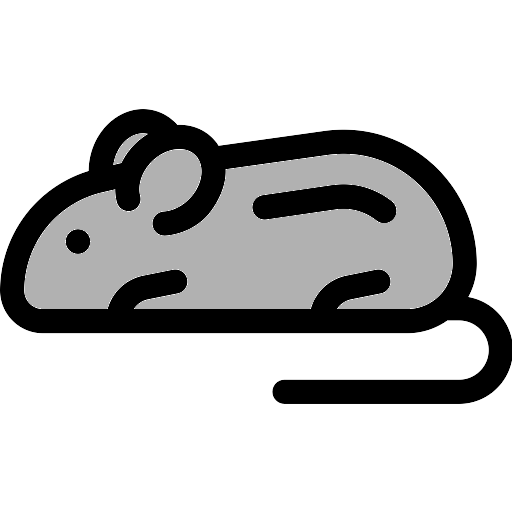
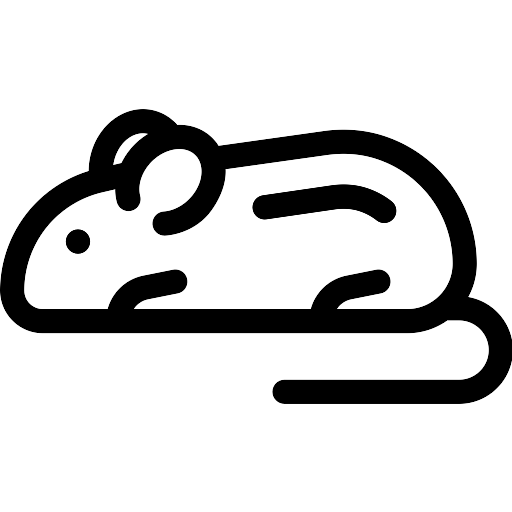
[GAC][Feat] Roll and chose in the turn

Changed region(s): [[0.0312, 0.2812, 0.9062, 0.625], [0.25, 0.25, 0.2812, 0.2812], [0.2188, 0.2812, 0.25, 0.3125]]

diff --git a/GetAllCheeses/getAllCheeses.js b/GetAllCheeses/getAllCheeses.js
@@ -2,20 +2,18 @@ const app = Vue.createApp({
     created() { },
     data() {
         return {
-            chessboard: [],
             diceSide: ["mouse", "cheese2", "cat", "cheese1", "mouse", "cheese0"],//front, bottom, back, top, left, right
-            lastStepChessboard: [],
-            validCell: [],
-            chosen: [0, 0],
-            isChoosing: false,
+            chosen: [-1],
             playerTurn: 1,//1 - n
             playerCount: 2,
             randomMin: 1,
             randomMax: 30,
             diceCount: 13,
-            remainDiceCount: [13],
-            rollResult: {},
+            remainDiceCount: 13,
+            rollResult: [],
+            choseList: [],
             playerColor: ["#DCDCDC", "#DCDCDC"],
+            phase: "roll"//roll - wait - choosing
         };
     },
     mounted() {
@@ -41,20 +39,16 @@ const app = Vue.createApp({
             let cube = "";
             let xRand = 0;
             let yRand = 0;
-            let singleResult = "";
-            this.rollResult = {};
-            for (let i = 1; i <= this.remainDiceCount[this.playerTurn - 1]; i++) {
+            this.rollResult = [];
+            for (let i = 1; i <= this.remainDiceCount; i++) {
                 diceId = "dice" + i;
                 cube = document.getElementById(diceId);
                 xRand = this.getRandom(this.randomMax, this.randomMin);
                 yRand = this.getRandom(this.randomMax, this.randomMin);
+                cube.classList.remove('notransition');
                 cube.style.webkitTransform = 'rotateX(' + xRand + 'deg) rotateY(' + yRand + 'deg)';
                 cube.style.transform = 'rotateX(' + xRand + 'deg) rotateY(' + yRand + 'deg)';
-                singleResult = this.checkDiceFace(xRand, yRand);
-                if (!(singleResult in this.rollResult)) {
-                    this.rollResult[singleResult] = 0;
-                }
-                this.rollResult[singleResult]++;
+                this.rollResult.push(this.checkDiceFace(xRand, yRand));
             }
         },
         checkDiceFace(degX, degY) {
@@ -90,11 +84,94 @@ const app = Vue.createApp({
             }
 
         },
-        WonTheGameBy(chessOwner) {
+        clickOnDice(diceIndex) {
+            console.log(diceIndex, this.phase);
+            if (this.phase == "roll") {
+                this.chosen = -1;
+                this.rollTheDices();
+                this.phase = "wait";
+                this.waitForDiceAnimate();
+            }
+            if (this.phase == "choosing") {
+                this.chosen = diceIndex;
+                console.log(this.getIndexWithPattern(this.rollResult[this.chosen - 1]));
+            }
+        },
+        waitForDiceAnimate() {
+            setTimeout(() => { this.phase = "catPicking"; this.waitForCatPicking(); }, 3000);
+        },
+        waitForCatPicking() {
+            setTimeout(() => {
+                this.catPicking();
+                if (this.checkPickingAvailable()) {
+                    this.phase = "choosing";
+                }
+                else {
+                    this.turnEnd();
+                }
+            }, 2000);
+        },
+        getIndexWithPattern(pattern) {
+            if (this.rollResult.length == 0) return [];
+            return this.rollResult.reduce((arr, element, index) => {
+                if (element === pattern)
+                    arr.push(index);
+                return arr;
+            }, []);
+            //ref : https://stackoverflow.com/questions/20798477/how-to-find-index-of-all-occurrences-of-element-in-array
+        },
+        catPicking() {
+            let elementIndexes = this.getIndexWithPattern("cat");
+            let elementCount = elementIndexes.length;
+            if (!("cat" in this.choseList)) this.choseList["cat"] = 0;
+            this.choseList["cat"] += elementCount;
+            this.switchDisplayForPattern("cat");
+        },
+        confirmChosen() {
+            let chosenElement = this.rollResult[this.chosen - 1];
+            let elementIndexes = this.getIndexWithPattern(chosenElement);
+            let elementCount = elementIndexes.length;
+            if (chosenElement in this.choseList) {
+                if (chosenElement != "mouse") return;
+                this.choseList["mouse"] += elementCount;
+            }
+            else {
+                this.choseList[chosenElement] = elementCount;
+            }
+            this.switchDisplayForPattern(chosenElement);
+            if (!this.checkPickingAvailable()) {
+                console.log("No need to roll");
+            }
+            this.phase = "roll";
+        },
+        checkPickingAvailable() {
+            if (("cheese0" in this.choseList) && ("cheese1" in this.choseList) && ("cheese2" in this.choseList) && !this.rollResult.some("mouse")) return false;
+            if (("cat" in this.choseList) && this.choseList["cat"] > this.remainDiceCount + (("mouse" in this.choseList) ? this.choseList["mouse"] : 0)) return false;
+            return true;
+        },
+        switchDisplayForPattern(pattern) {
+            let temp = "";
+            for (let i = 0; i < this.remainDiceCount; i++) {
+                document.getElementById("dice" + (i * 1 + 1)).classList.add('notransition');
+                if (this.rollResult[i] == pattern) {
+                    for (let j = i + 1; j < this.remainDiceCount; j++) {
+                        if (this.rollResult[j] == pattern) continue;
+                        [this.rollResult[i], this.rollResult[j]] = [this.rollResult[j], this.rollResult[i]];
+                        temp = document.getElementById("dice" + (i * 1 + 1)).style.transform;
+                        document.getElementById("dice" + (i * 1 + 1)).style.transform = document.getElementById("dice" + (j * 1 + 1)).style.transform;
+                        document.getElementById("dice" + (j * 1 + 1)).style.transform = temp;
+                        break;
+                    }
+                }
+            }
+            this.rollResult = this.rollResult.filter(item => item !== pattern);
+            this.remainDiceCount = this.rollResult.length;
+        },
+        showMessageWithToast(msg) {
             var x = document.getElementById("snackbar");
             x.className = "show";
             setTimeout(function () { x.className = x.className.replace("show", ""); }, 3000);
-            document.getElementById("snackbar").innerText = "Player " + chessOwner + " Won The Game!";
+            document.getElementById("snackbar").innerText = msg;
         }
     }
 });

diff --git a/GetAllCheeses/getAllCheeses.html b/GetAllCheeses/getAllCheeses.html
@@ -11,12 +11,11 @@
   </head>
   <body id="app">
     <h1 class="text-center">Get All Cheeses</h1>
-    <h4 class="text-center">Now is Player <span class="playerTurnHint">{{playerTurn}}</span>'s turn <img src="./img/mouse_nobg.png" class="chessImg" :style="{'background-color':playerColor[playerTurn-1]}" /></h4>
-    <button @click="rollTheDices()">Roll The Dices</button>
+    <h4 class="text-center">Now is Player <span class="playerTurnHint">{{playerTurn}}</span>'s turn <img src="./img/mouse.png" class="chessImg" :style="{'background-color':playerColor[playerTurn-1]}" /> <button v-show="phase=='choosing'&&chosen!=-1" @click="confirmChosen()">Confirm</button></h4>
     <div class="mt-5 mt-xl-2"></div>
     <div class="container">
       <div class="row">
-        <div v-for="index in remainDiceCount[this.playerTurn-1]" class="col-4 col-xl-2">
+        <div v-for="index in remainDiceCount" class="col-4 col-xl-2">
           <section class="diceContainer" @click="clickOnDice(index)">
             <div :id="'dice'+index" class="cube">
               <div class="front" :style="{'background-color':playerColor[playerTurn-1]}"></div>
@@ -30,7 +29,22 @@
         </div>
       </div>
     </div>
-    <div class="cotainer text-center">
+    <div id="chosenArea" class="container">
+      <div class="row">
+        <div class="col-6">
+          <img v-for="index in choseList['cheese0']" src="./img/cheese0.png" class="imgInConfirmedZone" />
+          <img v-for="index in choseList['cheese1']" src="./img/cheese1.png" class="imgInConfirmedZone" />
+          <img v-for="index in choseList['cheese2']" src="./img/cheese2.png" class="imgInConfirmedZone" />
+        </div>
+        <div class="col-6">
+          <div class="col-12">
+            <img v-for="index in choseList['cat']" src="./img/cat.png" class="imgInConfirmedZone" />
+          </div>
+          <div class="col-12"><img v-for="index in choseList['mouse']" src="./img/mouse.png" class="imgInConfirmedZone" :style="{'background-color':playerColor[playerTurn-1]}" /></div>
+        </div>
+      </div>
+    </div>
+    <div id="playerInfoArea" class="cotainer text-center">
       <div class="row">
         <span v-for="index in playerCount" class="col-6">
           <span class="col-3 h4"><span class="colorPin" @click="changeColor(index)" :style="{'background-color':playerColor[index-1]}"></span><span style="text-align: center">Player {{index}} : </span></span>

diff --git a/GetAllCheeses/getAllCheeses.css b/GetAllCheeses/getAllCheeses.css
@@ -26,7 +26,7 @@ input[type=color]{
 }
   
 .front {
-  background-image: url("./img/mouse_nobg.png");
+  background-image: url("./img/mouse.png");
   transform: 
     translateZ(40px);
 }
@@ -46,7 +46,7 @@ input[type=color]{
 }
 
 .left {
-  background-image: url("./img/mouse_nobg.png");
+  background-image: url("./img/mouse.png");
   transform:
     rotateY(-90deg)
     translateZ(40px);
@@ -67,6 +67,7 @@ input[type=color]{
 }
 
 .diceContainer {
+  cursor: pointer;
   width: 80px;
   height: 80px;
   position: relative;
@@ -76,13 +77,24 @@ input[type=color]{
   perspective-origin: 50% 100%;
 }
 
+.imgInConfirmedZone{
+  width: 80px;
+  border: 5px black solid;
+  margin-left: 5px;
+  margin-top: 5px;
+}
 .cube {
   width: 80px;
   height: 80px;  
   transform-style: preserve-3d;
   transition: transform 3s;
 }
-
+.notransition {
+  -webkit-transition: none !important;
+  -moz-transition: none !important;
+  -o-transition: none !important;
+  transition: none !important;
+}
 .cube>div {
   display: block;
   position: fixed;
